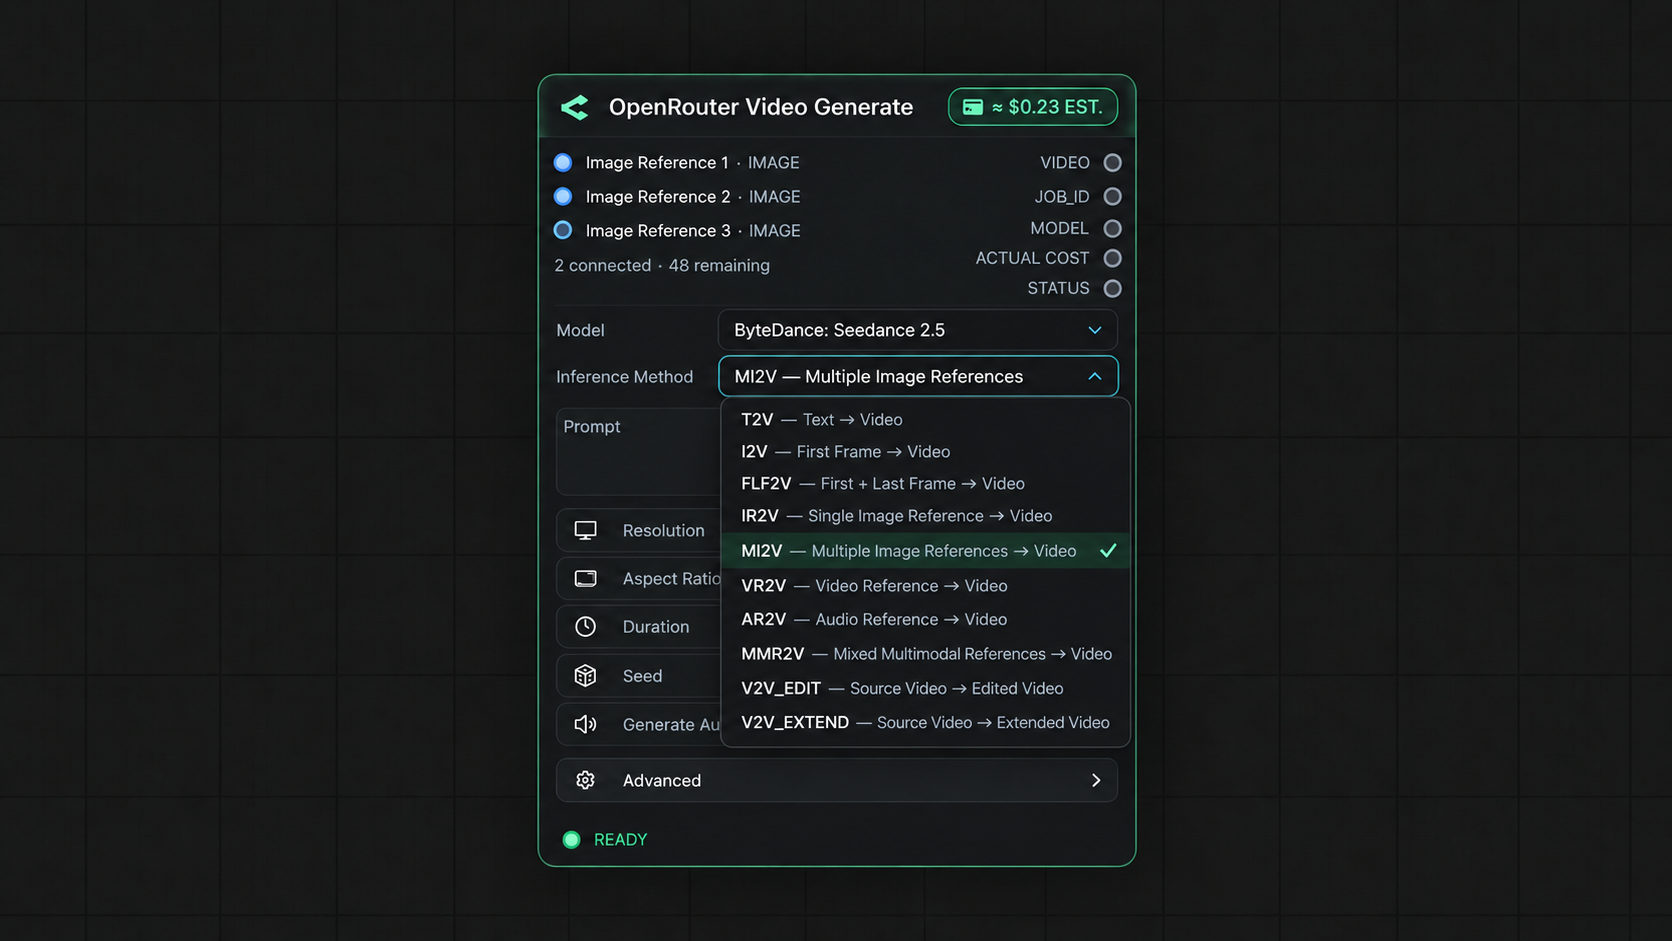
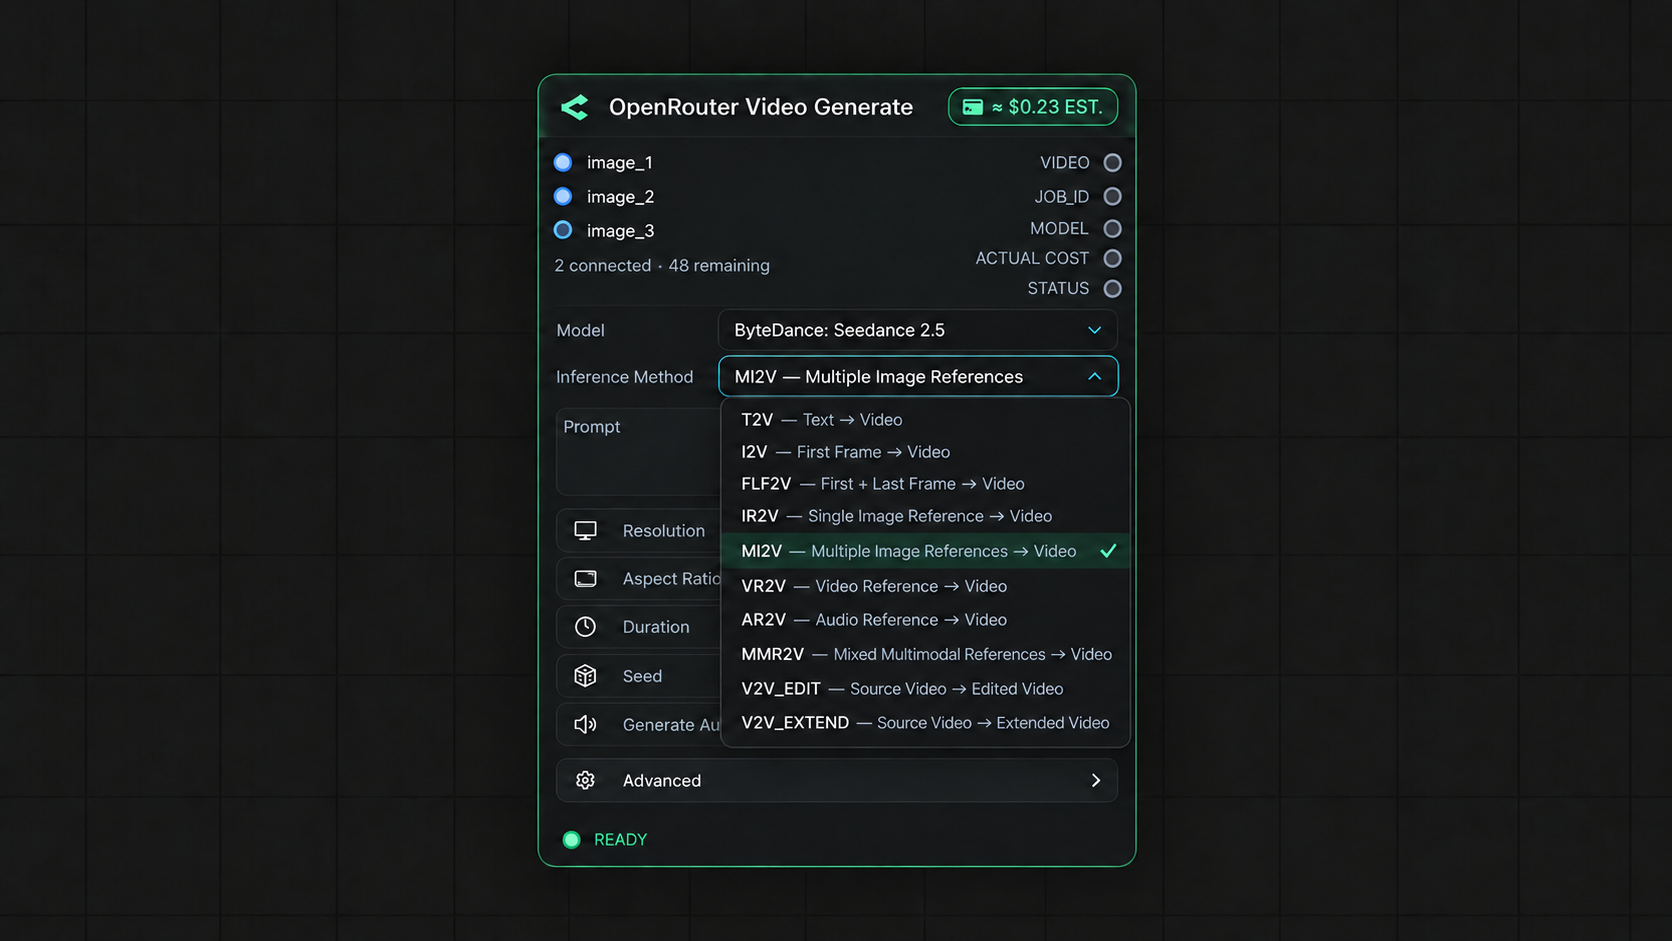
docs: shorten Phase 10 dynamic socket labels

diff --git a/docs/phase-10-direction-3-visual-spec.md b/docs/phase-10-direction-3-visual-spec.md
@@ -1,10 +1,10 @@
 # Phase 10 Direction 3 Visual Specification
 
-- Status: `PRODUCT DIRECTION APPROVED — VISUAL ACCEPTANCE PENDING`
+- Status: `PRODUCT DIRECTION APPROVED — VISUAL ACCEPTED AFTER SHORT-LABEL CORRECTION`
 - Visual direction: `Direction 3 — balanced native/polished ComfyUI`
 - Primary model state: `bytedance/seedance-2.5`
 - Primary method state: `MI2V`
-- Implementation authorization: `NOT GRANTED`
+- Implementation authorization: `GRANTED — PRODUCT CODE NOT YET STARTED`
 
 Raster mockups are visual targets. This document is the exact semantic source if generated text in a
 mockup ever differs from the specification.
@@ -68,17 +68,21 @@ V2V_EXTEND — Source Video → Extended Video
 | Method | Visible sockets | Local validity |
 | --- | --- | --- |
 | `T2V` | none | prompt-to-video |
-| `I2V` | `First Frame · IMAGE` | exactly one required |
-| `FLF2V` | `First Frame · IMAGE`, `Last Frame · IMAGE` | both required |
-| `IR2V` | `Image Reference 1 · IMAGE` | exactly one IMAGE reference |
-| `MI2V` | `Image Reference 1…N · IMAGE` | at least two IMAGE references |
-| `VR2V` | `Video Reference 1…N · VIDEO` | at least one VIDEO reference |
-| `AR2V` | `Audio Reference 1…N · AUDIO` | at least one AUDIO reference |
-| `MMR2V` | `Reference 1…N · IMAGE / VIDEO / AUDIO` | at least two refs and two distinct kinds |
-| `V2V_EDIT` | `Source Video · VIDEO`, optional `Reference 1…N` | source required; intent EDIT |
-| `V2V_EXTEND` | `Source Video · VIDEO`, optional `Reference 1…N` | source required; intent EXTEND |
+| `I2V` | `first_frame` | exactly one required |
+| `FLF2V` | `first_frame`, `last_frame` | both required |
+| `IR2V` | `image_1` | exactly one IMAGE reference |
+| `MI2V` | `image_1…image_N` | at least two IMAGE references |
+| `VR2V` | `video_1…video_N` | at least one VIDEO reference |
+| `AR2V` | `audio_1…audio_N` | at least one AUDIO reference |
+| `MMR2V` | connected `image_N` / `video_N` / `audio_N`; free `reference_N` | at least two refs and two distinct kinds |
+| `V2V_EDIT` | `source_video`, optional short typed references | source required; intent EDIT |
+| `V2V_EXTEND` | `source_video`, optional short typed references | source required; intent EXTEND |
 
-Socket labels express product role and media type. They never expose upstream-invented field names.
+Socket labels use compact lowercase snake_case. Reference-slot numbering is stable, one-based, and
+follows visible serialization order. In MMR2V an unconnected trailing socket is `reference_N`; after a
+typed connection it becomes `image_N`, `video_N`, or `audio_N` without moving the socket. These labels
+are presentation semantics only and never become upstream field names.
+
 Transport is expressed by the helper nodes `Public Image URL`, `Public Video URL`, and
 `Public Audio URL`; the Generate node remains task-oriented.
 
@@ -136,9 +140,9 @@ Save/reload preserves model, explicit method, reference order, duplicate referen
 role, and all connected links. A saved incompatible state reloads as incompatible; it is never silently
 rewritten to the preferred method.
 
-## Visual acceptance gate
+## Visual acceptance
 
-Acceptance covers the hierarchy, labels, method menu, typed sockets, autogrow, maximum state,
-incompatible state, lifecycle presentation, cost badge, error/Resume presentation, and save/reload
-semantics shown here. Product implementation must not start until the Product Owner explicitly accepts
-this refined specification.
+The Product Owner accepted Direction 3 with one final correction: replace long typed reference labels
+with the compact `image_N`, `video_N`, and `audio_N` convention. The updated primary and dropdown
+assets satisfy that condition. The Phase-10 visual gate is closed and implementation may proceed
+without reopening design direction.

diff --git a/docs/phase-10-capability-driven-inference-methods-plan.md b/docs/phase-10-capability-driven-inference-methods-plan.md
@@ -1,6 +1,6 @@
 # Phase 10 — Capability-Driven Inference Methods & Multimodal Expansion
 
-- Status: `PRE-IMPLEMENTATION — PRODUCT OWNER VISUAL ACCEPTANCE REQUIRED`
+- Status: `IMPLEMENTATION READY — PRODUCT OWNER VISUAL ACCEPTANCE COMPLETE`
 - Canonical baseline: `main@b492184f41492d37677a2dde9afdbe88666717a2`
 - Feature branch: `phase-10/capability-driven-inference-methods`
 - Product direction: `Direction 3 — APPROVED`
@@ -162,8 +162,8 @@ slug-pattern pricing branch is allowed.
 | 7 | Define Seedance 2.5 preference `MI2V` | `COMPLETE — PRODUCT POLICY` |
 | 8 | Consolidate canonical Phase-10 plan | `COMPLETE` |
 | 9 | Refine Direction 3 visual specification | `COMPLETE` |
-| 10 | Product Owner visual acceptance | `OPEN — STOP` |
-| 11 | Implement Core domain, validation, AUDIO, V2V roles, fingerprint v3, migration | `NOT STARTED` |
+| 10 | Product Owner visual acceptance | `COMPLETE — short socket labels accepted` |
+| 11 | Implement Core domain, validation, AUDIO, V2V roles, fingerprint v3, migration | `READY — NOT STARTED` |
 | 12 | Update Comfy adapter | `NOT STARTED` |
 | 13 | Update frontend projection and dynamic sockets | `NOT STARTED` |
 | 14 | Update pricing estimator | `NOT STARTED` |
@@ -174,7 +174,7 @@ slug-pattern pricing branch is allowed.
 | 19 | Open new Phase-10 draft PR | `NOT STARTED` |
 | 20 | Human-only review and merge | `NOT STARTED` |
 
-No step after 10 may begin until explicit visual acceptance.
+Visual acceptance is complete. Step 11 is now the first unfinished action; later steps remain ordered.
 
 ## Acceptance matrix
 

diff --git a/docs/active-execution-checkpoint.md b/docs/active-execution-checkpoint.md
@@ -6,7 +6,7 @@
 - Canonical baseline: `main@b492184f41492d37677a2dde9afdbe88666717a2`
 - Working branch: `phase-10/capability-driven-inference-methods`
 - Delivery PR: `NOT CREATED — strict sequence places draft PR after implementation and verification`
-- Current gate: `PRODUCT OWNER VISUAL ACCEPTANCE`
+- Current gate: `VISUAL ACCEPTANCE COMPLETE — CORE IMPLEMENTATION READY`
 - Product implementation: `NOT STARTED`
 - Paid generation authority: `NONE`
 - Merge authority: `HUMAN ONLY`
@@ -30,6 +30,8 @@ source worktree clean before branch creation
 - ADR-031 added as a partial supersession of ADR-030; ADR-030 remains historical.
 - Primitive capability contract, deterministic method derivation, and `MI2V` product preference frozen.
 - One self-contained Phase-10 plan and refined Direction 3 visual specification produced.
+- Product Owner final correction applied: compact `image_N`, `video_N`, `audio_N` socket labels.
+- Direction 3 visual acceptance: `COMPLETE`.
 
 ## Historical completion preserved
 
@@ -53,6 +55,7 @@ PRODUCT SOURCE IMPLEMENTATION STARTED = NO
 
 ```text
 PHASE 10 PRE-IMPLEMENTATION PACKAGE = COMPLETE
-NEXT EXACT ACTION = PRODUCT OWNER VISUAL ACCEPTANCE OF DIRECTION 3 SPEC
-DO NOT IMPLEMENT CORE / ADAPTER / FRONTEND / PRICING BEFORE ACCEPTANCE
+PHASE 10 DIRECTION 3 VISUAL ACCEPTANCE = COMPLETE
+NEXT EXACT ACTION = IMPLEMENT CORE DOMAIN / VALIDATION / AUDIO / V2V ROLES / FINGERPRINT V3 / MIGRATION
+LATER ADAPTER / FRONTEND / PRICING STEPS REMAIN ORDERED
 ```

diff --git a/README.md b/README.md
@@ -4,7 +4,7 @@ Open-source BYOK model-agnostic OpenRouter Video gateway for ComfyUI.
 
 ## Status
 
-**PRE-ALPHA — Phase 10 pre-implementation visual acceptance gate; paid validation is not authorized.**
+**PRE-ALPHA — Phase 10 implementation ready after visual acceptance; paid validation is not authorized.**
 
 The headless core now contains typed Video API contracts, capability discovery and bounded cache,
 pre-submit validation, a durable SQLite lifecycle, one-attempt Generate, submit-incapable Resume,
@@ -19,8 +19,9 @@ in ADR-030 enables multi-image, video, and mixed image/video reference modes for
 authority. Prompt remains required for every Generate call.
 
 Phase 10 is approved for capability-driven local inference methods and Seedance 2.5 AUDIO/Edit/Extend
-expansion, but product implementation is stopped pending Product Owner acceptance of the refined
-Direction 3 visual specification. See the [canonical Phase-10 plan](docs/phase-10-capability-driven-inference-methods-plan.md),
+expansion. The refined Direction 3 specification is Product Owner accepted with compact dynamic socket
+labels (`image_N`, `video_N`, `audio_N`); Core implementation is the next ordered step. See the
+[canonical Phase-10 plan](docs/phase-10-capability-driven-inference-methods-plan.md),
 [ADR-031](docs/adr/ADR-031-capability-driven-inference-methods-and-multimodal-references.md), and the
 [active checkpoint](docs/active-execution-checkpoint.md).
 
